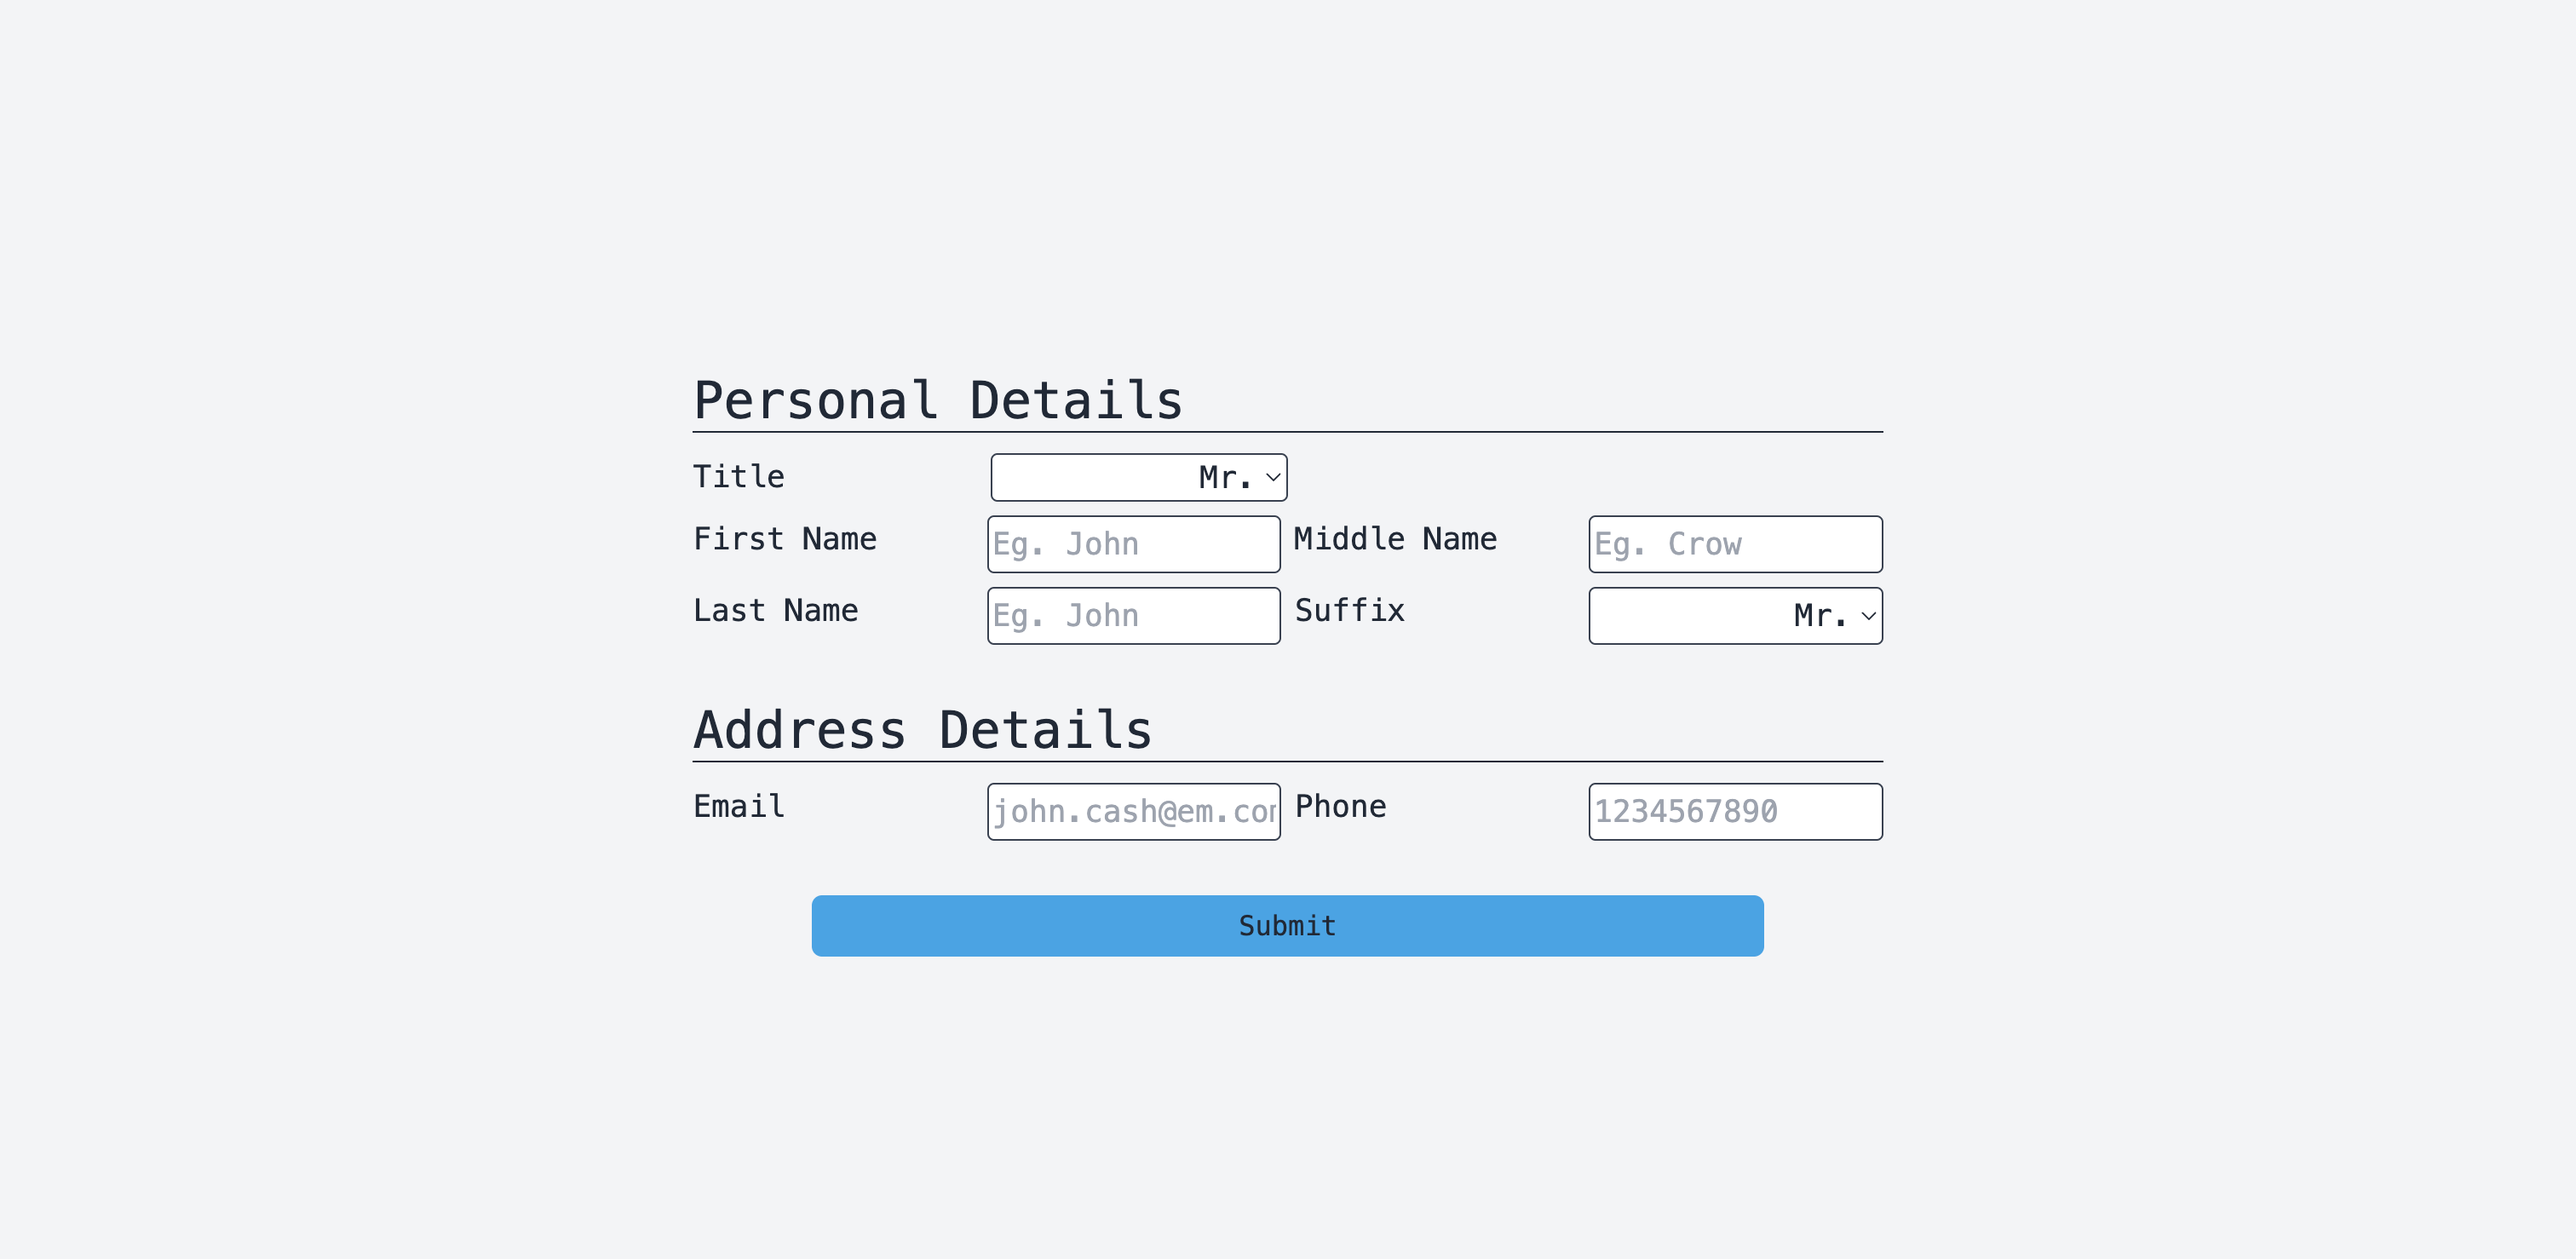
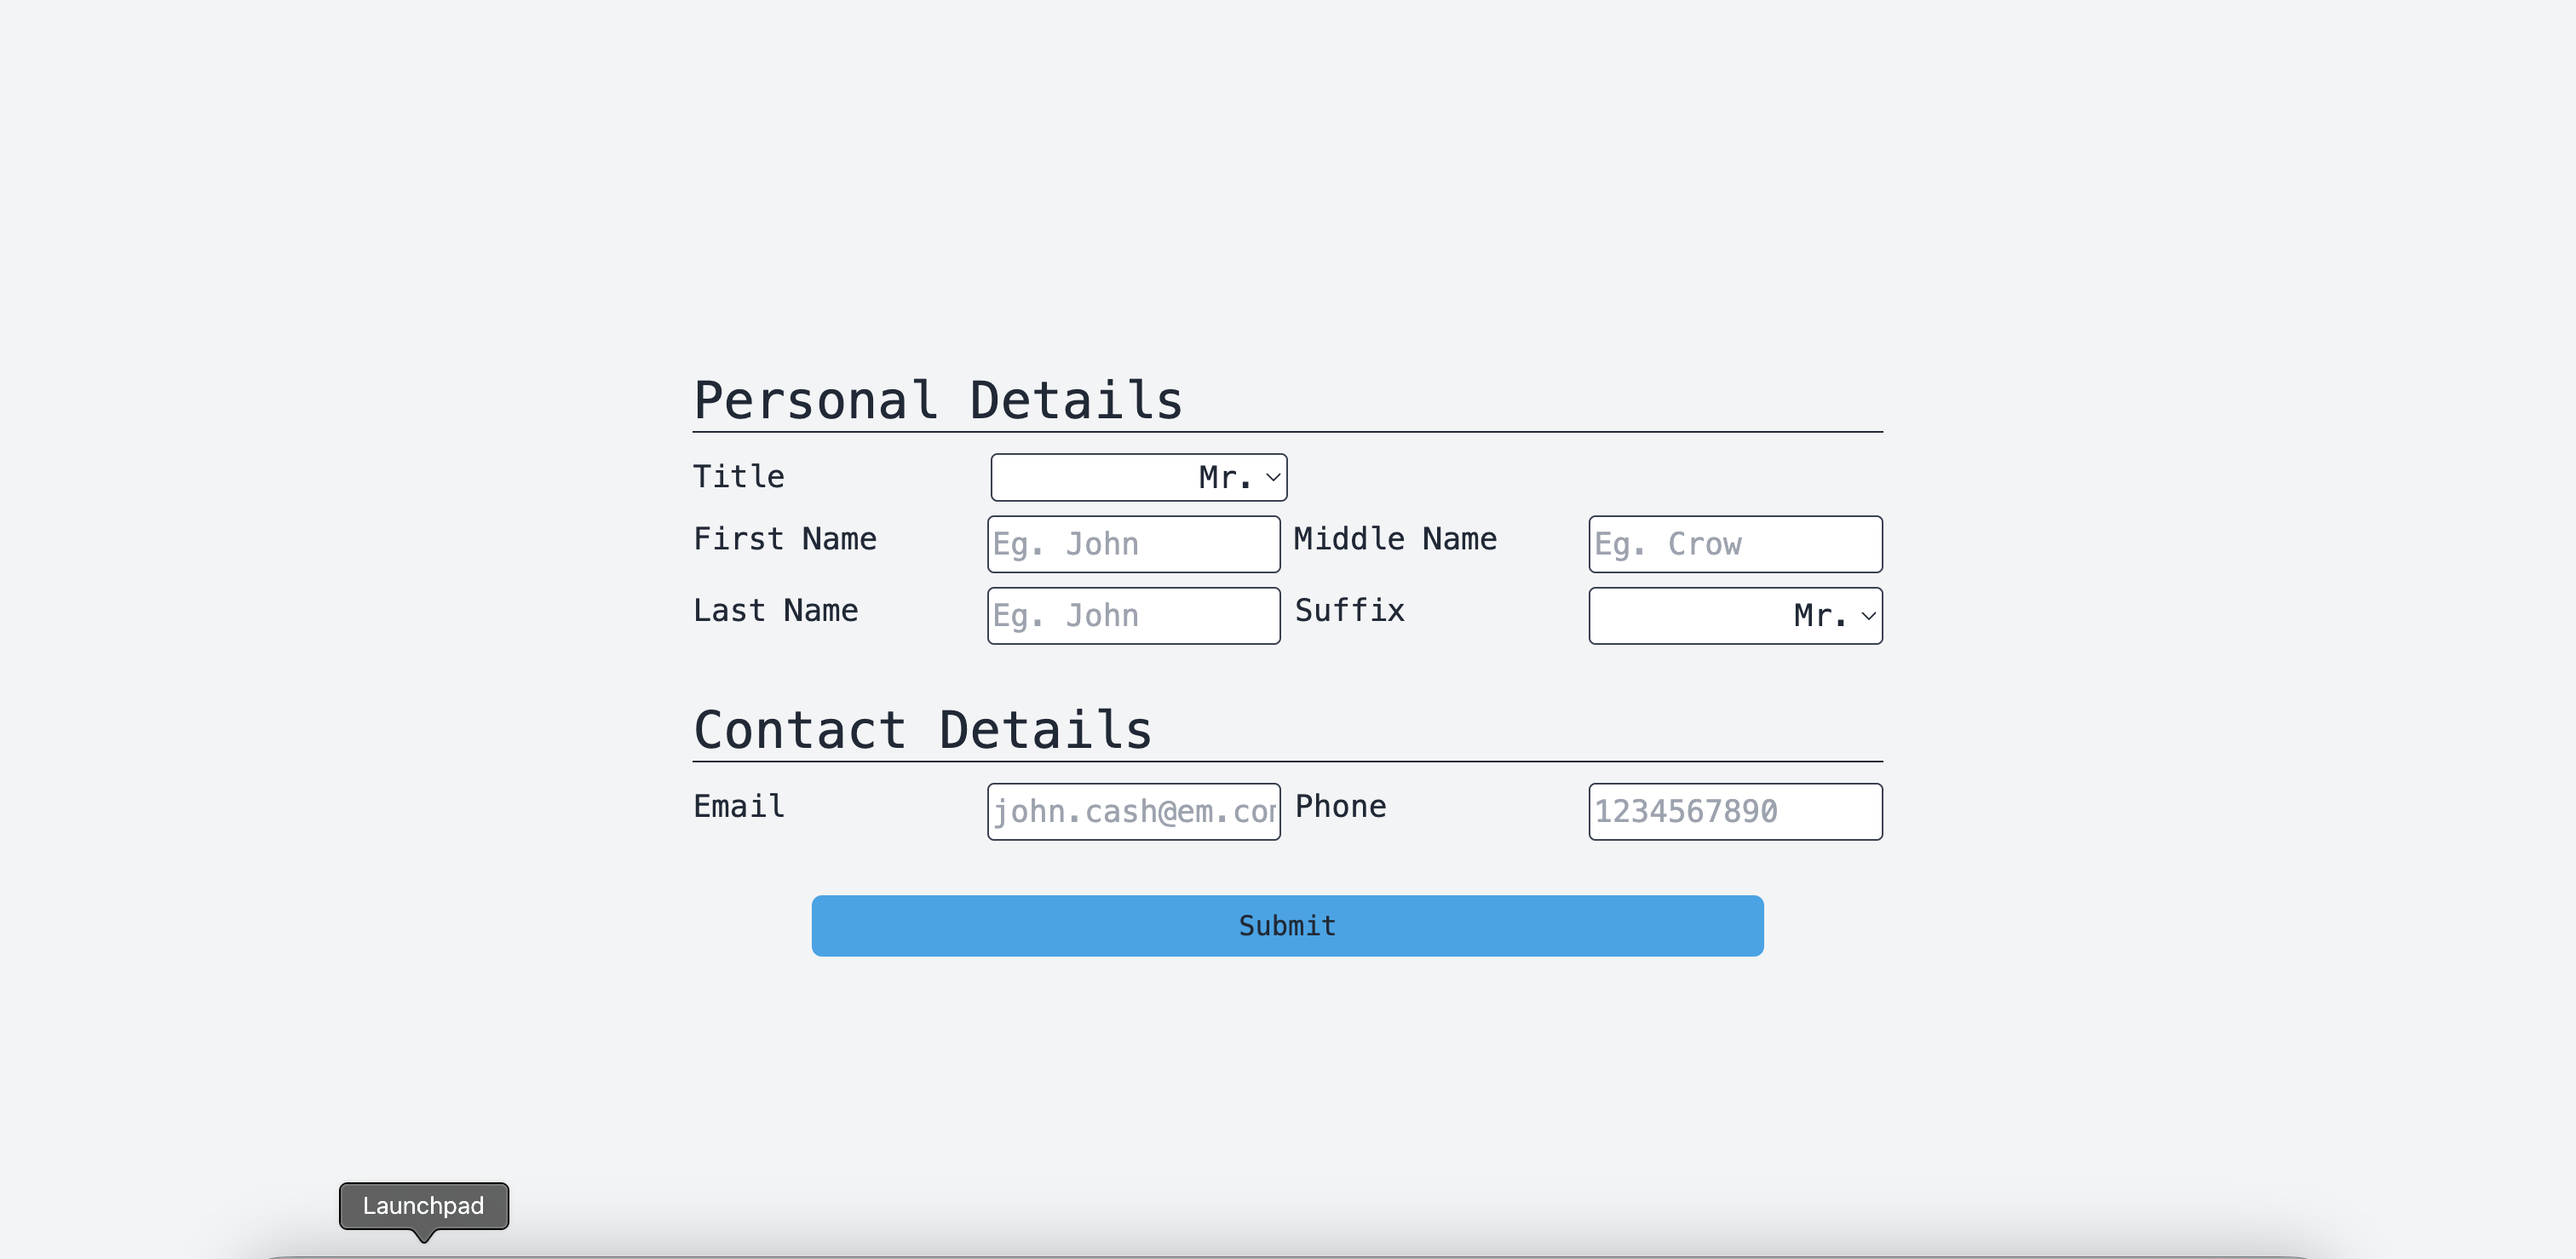
corrected 2nd Heading

Changed region(s): [[0.0933, 0.9337, 0.9015, 1.0], [0.2487, 0.5602, 0.373, 0.5913]]

diff --git a/src/App.js b/src/App.js
@@ -41,7 +41,7 @@ function App() {
             </div>
           </div>
           <div class="mt-8">
-            <h1 class='text-3xl font-mono'>Address Details</h1>
+            <h1 class='text-3xl font-mono'>Contact Details</h1>
             <div class="border-b border-gray-800 mb-3"></div>
           </div>
 
